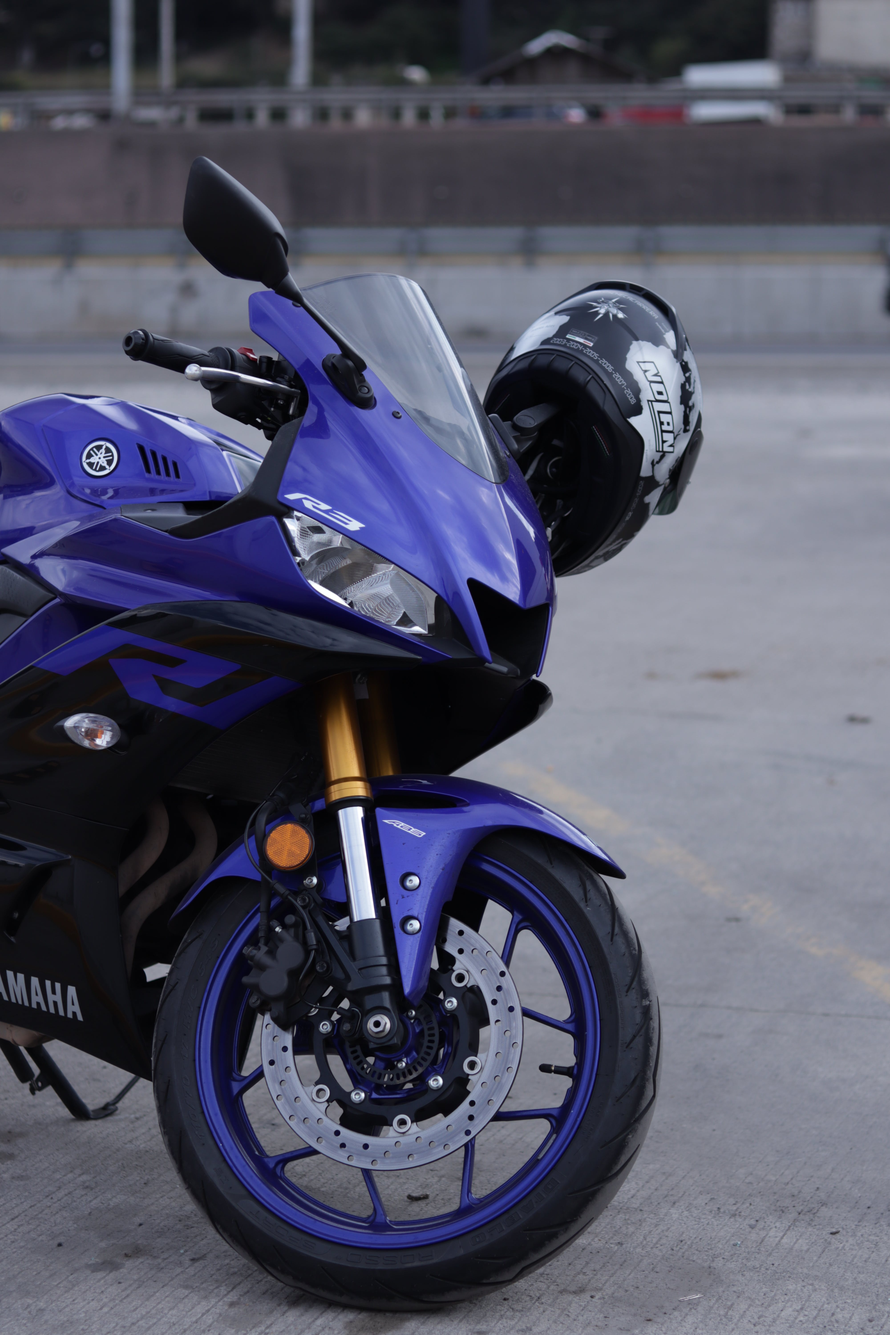
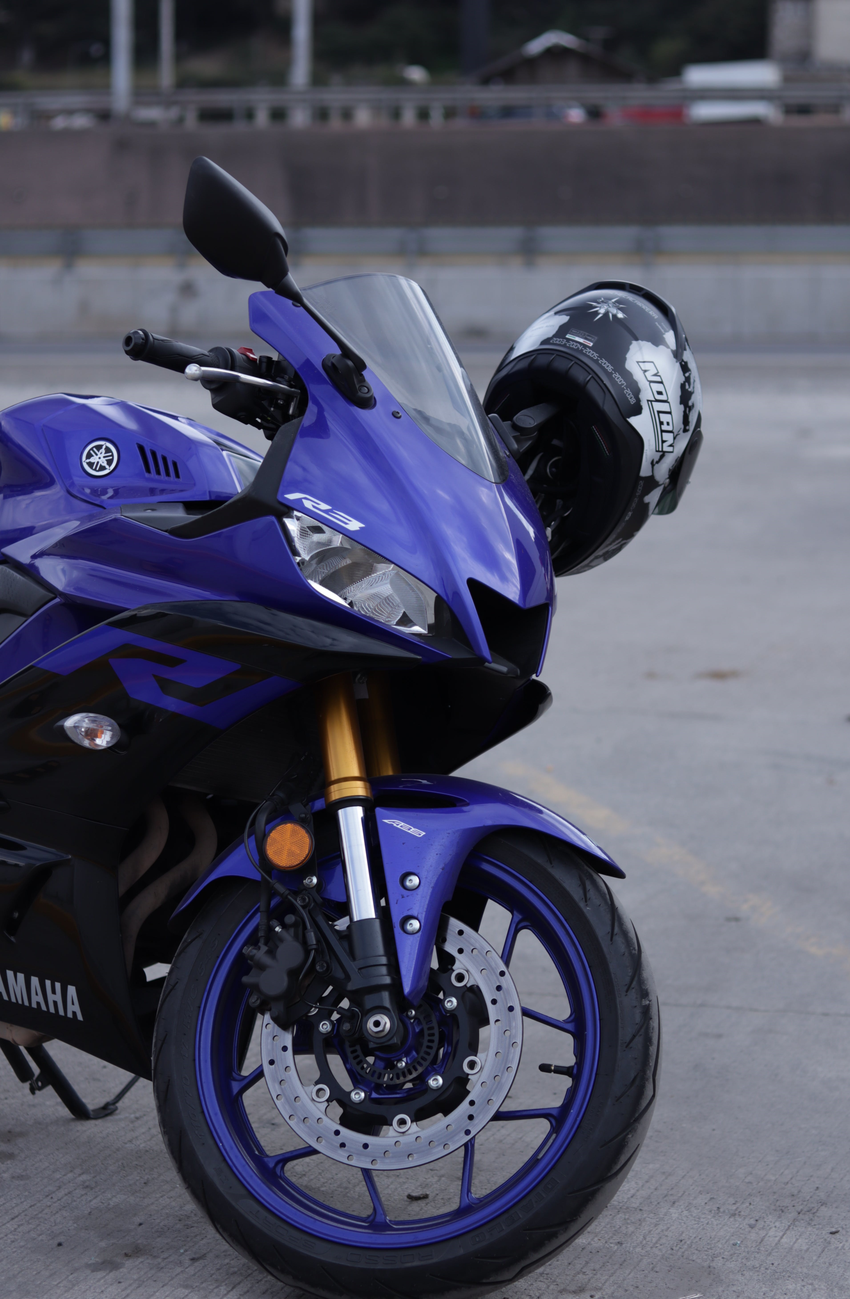
adjust page names and hrefs

diff --git a/assets/css/style.css b/assets/css/style.css
@@ -99,7 +99,7 @@ main {
 }
 
 .image-box {
-  flex: 1 0 100%;
+  flex: 1 50% 100%;
   box-sizing: border-box;
   margin-right: 5px;
   margin-bottom: 0px;
@@ -108,6 +108,10 @@ main {
   border: 4px solid transparent;
   transition: border-color 0.3s ease-in-out;
   max-height: 929px;
+}
+
+.image-link a {
+    object-fit: cover;
 }
 
 .image-box:hover {
@@ -124,7 +128,7 @@ main {
 
 .image-box img {
   width: 100%;
-  height: 100%;
+  height: auto;
   object-fit: cover;
 }
 
@@ -132,7 +136,7 @@ main {
 
 .image-link {
     display: block;
-    position:relative
+    position:relative;
 }
 
 .hover-text {
@@ -140,7 +144,7 @@ main {
     bottom: 10%;
     left: 50%;
     transform: translate(-50%);
-    background-color: rgba(255, 255, 255, 0.8);
+    background-color: rgba(131, 131, 131, 0.8);
     padding: 10px;
     text-align: center;
     opacity: 0;
@@ -159,6 +163,15 @@ main {
 /* Footer */
 footer {
   background-color: orange;
+}
+
+
+/* Media query: Smaller than Tablet */
+@media screen and (max-width: 768px) {
+    .hover-text {
+        opacity: 1;
+        flex: 0 0 100%;
+    }
 }
 
 /* Media query: Tablets and larger */
@@ -193,12 +206,13 @@ footer {
 
   /* Main content */
   main {
-    margin-top: 79px;
+    margin-top: 150px;
   }
 
   .image-box {
-    flex: 1 0 50%;
-    height: 100vh;
+    flex: 1 0 32%;
+    height: fit-content;
+    margin-right: 0%;
   }
 }
 
@@ -229,6 +243,9 @@ footer {
     transform: scaleX(1);
   }
 
+  main {
+      margin-top: 78px;
+  }
   .image-box {
     flex: 1 0 33%;
     height: 100%;

diff --git a/index.html b/index.html
@@ -43,11 +43,6 @@
           <li><a href="yamaha-r1.html">R1</a></li>
           <li><a href="yamaha-r3.html">R3</a></li>
           <li><a href="yamaha-r6.html">R6</a></li>
-          <li>
-            <a href="https://www.yamaha-motor.eu/gb/en/motorcycles/"
-              >Yamaha Shop</a
-            >
-          </li>
         </ul>
       </nav>
     </header>
@@ -61,7 +56,7 @@
                     <div class="hover-text">
                         <h1>Yamaha R1</h1>
                     </div>
-                    </a<>
+                    </a>
             </div>
     
             <div class="image-box">
@@ -70,7 +65,7 @@
                     <div class="hover-text">
                         <h1>Yamaha R6</h1>
                     </div>
-                    </a<>
+                    </a>
             </div>
     
             <div class="image-box">
@@ -79,7 +74,7 @@
                     <div class="hover-text">
                         <h1>Yamaha R3</h1>
                     </div>
-                    </a<>
+                    </a>
             </div>
     
         </div>

diff --git a/yamaha-r1.html b/yamaha-r1.html
@@ -41,10 +41,9 @@
       <nav>
         <ul id="menu">
           <li><a href="index.html">Home</a></li>
-          <li><a href="gallery.html">Gallery</a></li>
-          <li>
-            <a href="https://www.yamaha-motor.eu/gb/en/motorcycles/">Shop</a>
-          </li>
+          <li><a href="yamaha-r1.html" class="active">R1</a></li>
+          <li><a href="yamaha-r3.html">R3</a></li>
+          <li><a href="yamaha-r6.html">R6</a></li>
         </ul>
       </nav>
     </header>

diff --git a/yamaha-r3.html b/yamaha-r3.html
@@ -41,10 +41,9 @@
       <nav>
         <ul id="menu">
           <li><a href="index.html">Home</a></li>
-          <li><a href="gallery.html">Gallery</a></li>
-          <li>
-            <a href="https://www.yamaha-motor.eu/gb/en/motorcycles/">Shop</a>
-          </li>
+          <li><a href="yamaha-r1.html">R1</a></li>
+          <li><a href="yamaha-r3.html" class="active">R3</a></li>
+          <li><a href="yamaha-r6.html">R6</a></li>
         </ul>
       </nav>
     </header>

diff --git a/yamaha-r6.html b/yamaha-r6.html
@@ -41,10 +41,9 @@
       <nav>
         <ul id="menu">
           <li><a href="index.html">Home</a></li>
-          <li><a href="gallery.html">Gallery</a></li>
-          <li>
-            <a href="https://www.yamaha-motor.eu/gb/en/motorcycles/">Shop</a>
-          </li>
+          <li><a href="yamaha-r1.html">R1</a></li>
+          <li><a href="yamaha-r3.html">R3</a></li>
+          <li><a href="yamaha-r6.html" class="active">R6</a></li>
         </ul>
       </nav>
     </header>
